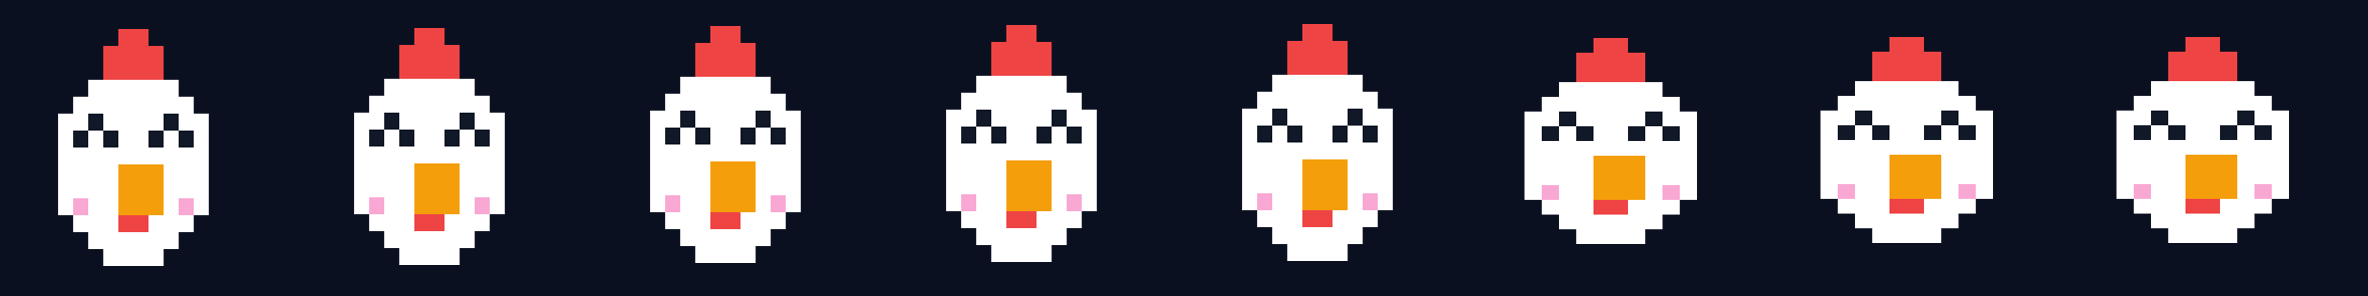
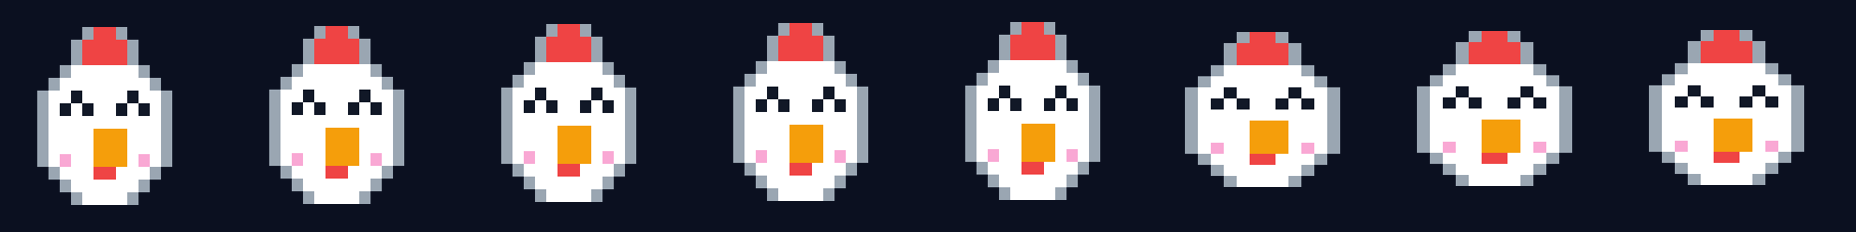
fix(ui): contorno do mascote e ajustes de tela
- mascote com contorno (some no fundo branco sem ele)
- onboarding com SafeArea (barra não invade a status bar)
- estrela do nó branca
- dica de tradução só em nós de texto

diff --git a/app/src/components/Mascot.tsx b/app/src/components/Mascot.tsx
@@ -12,6 +12,9 @@ const PALETTE: Record<string, string | null> = {
   P: "#f9a8d4",
 };
 
+// Contorno: dá definição da cara branca sobre fundo branco.
+const OUTLINE = "#9AA6B2";
+
 const SPRITE = [
   "......RR........",
   ".....RRRR.......",
@@ -69,6 +72,32 @@ function poseFor(mode: MascotMode, t: number, frame: number) {
   };
 }
 
+function buildGrid(pose: ReturnType<typeof poseFor>): Map<string, string> {
+  const grid = new Map<string, string>();
+  SPRITE.forEach((line, row) => {
+    for (let col = 0; col < line.length; col++) {
+      const color = PALETTE[line[col]];
+      if (color) grid.set(`${row},${col}`, color);
+    }
+  });
+  if (pose.expr !== "blink") {
+    for (const [row, col, ch] of EYE_CELLS[pose.expr]) {
+      grid.set(`${row},${col}`, PALETTE[ch] as string);
+    }
+  }
+  if (pose.beakOpen) {
+    for (let col = 6; col <= 8; col++) grid.set(`10,${col}`, PALETTE.O as string);
+  }
+  return grid;
+}
+
+const NEIGHBORS = [
+  [1, 0],
+  [-1, 0],
+  [0, 1],
+  [0, -1],
+];
+
 type Props = { mode?: MascotMode; cell?: number };
 
 export function Mascot({ mode = "idle", cell = 8 }: Props) {
@@ -80,22 +109,35 @@ export function Mascot({ mode = "idle", cell = 8 }: Props) {
   }, []);
 
   const pose = poseFor(mode, frame * 0.1, frame);
+  const grid = buildGrid(pose);
 
-  const cells: { row: number; col: number; color: string }[] = [];
-  SPRITE.forEach((line, row) => {
-    for (let col = 0; col < line.length; col++) {
-      const color = PALETTE[line[col]];
-      if (color) cells.push({ row, col, color });
-    }
-  });
-  if (pose.expr !== "blink") {
-    for (const [row, col, ch] of EYE_CELLS[pose.expr]) {
-      cells.push({ row, col, color: PALETTE[ch] as string });
+  const outline: string[] = [];
+  for (let row = -1; row <= SPRITE_H; row++) {
+    for (let col = -1; col <= SPRITE_W; col++) {
+      const key = `${row},${col}`;
+      if (grid.has(key)) continue;
+      if (NEIGHBORS.some(([dr, dc]) => grid.has(`${row + dr},${col + dc}`))) {
+        outline.push(key);
+      }
     }
   }
-  if (pose.beakOpen) {
-    for (let col = 6; col <= 8; col++) cells.push({ row: 10, col, color: PALETTE.O as string });
-  }
+
+  const rect = (key: string, color: string, i: string) => {
+    const [row, col] = key.split(",").map(Number);
+    return (
+      <View
+        key={i}
+        style={{
+          position: "absolute",
+          left: col * cell,
+          top: row * cell,
+          width: cell,
+          height: cell,
+          backgroundColor: color,
+        }}
+      />
+    );
+  };
 
   return (
     <View style={[styles.stage, { width: SPRITE_W * cell, height: SPRITE_H * cell }]}>
@@ -106,19 +148,8 @@ export function Mascot({ mode = "idle", cell = 8 }: Props) {
           transform: [{ translateY: pose.yOff }, { scaleY: 1 - pose.squash }],
         }}
       >
-        {cells.map((c, i) => (
-          <View
-            key={i}
-            style={{
-              position: "absolute",
-              left: c.col * cell,
-              top: c.row * cell,
-              width: cell,
-              height: cell,
-              backgroundColor: c.color,
-            }}
-          />
-        ))}
+        {outline.map((key, i) => rect(key, OUTLINE, `o${i}`))}
+        {Array.from(grid.entries()).map(([key, color], i) => rect(key, color, `c${i}`))}
       </View>
     </View>
   );

diff --git a/mascot/sketch.js b/mascot/sketch.js
@@ -13,6 +13,8 @@ const PALETTE = {
   P: "#f9a8d4", // bochecha
 };
 
+const OUTLINE = "#9AA6B2"; // contorno (leitura em fundo claro)
+
 // Cara (sem olhos — olhos são desenhados por expressão).
 const SPRITE = [
   "......RR........",
@@ -85,27 +87,39 @@ function eyeCells(expr) {
 // ---- Desenho -----------------------------------------------------------
 
 function drawSpriteInto(g, pose) {
+  const grid = new Map();
   for (let row = 0; row < SPRITE_H; row++) {
-    const line = SPRITE[row];
     for (let col = 0; col < SPRITE_W; col++) {
-      const color = PALETTE[line[col]];
-      if (!color) continue;
-      g.fill(color);
-      g.rect(col * CELL, row * CELL, CELL, CELL);
+      if (PALETTE[SPRITE[row][col]]) grid.set(`${row},${col}`, PALETTE[SPRITE[row][col]]);
     }
   }
-
   if (pose.expr !== "blink") {
-    for (const [row, col, color] of eyeCells(pose.expr)) {
-      g.fill(color);
-      g.rect(col * CELL, row * CELL, CELL, CELL);
-    }
+    for (const [row, col, color] of eyeCells(pose.expr)) grid.set(`${row},${col}`, color);
+  }
+  if (pose.beakOpen) {
+    for (let col = 6; col <= 8; col++) grid.set(`10,${col}`, PALETTE.O);
   }
 
-  if (pose.beakOpen) {
-    g.fill(PALETTE.O);
-    for (let col = 6; col <= 8; col++) g.rect(col * CELL, 10 * CELL, CELL, CELL);
+  const paint = (key, color) => {
+    const [row, col] = key.split(",").map(Number);
+    g.fill(color);
+    g.rect(col * CELL, row * CELL, CELL, CELL);
+  };
+
+  // contorno (leitura em fundo claro)
+  for (let row = -1; row <= SPRITE_H; row++) {
+    for (let col = -1; col <= SPRITE_W; col++) {
+      const key = `${row},${col}`;
+      if (grid.has(key)) continue;
+      const n =
+        grid.has(`${row + 1},${col}`) ||
+        grid.has(`${row - 1},${col}`) ||
+        grid.has(`${row},${col + 1}`) ||
+        grid.has(`${row},${col - 1}`);
+      if (n) paint(key, OUTLINE);
+    }
   }
+  for (const [key, color] of grid) paint(key, color);
 }
 
 function drawFace(pose) {

diff --git a/app/src/screens/OnboardingScreen.tsx b/app/src/screens/OnboardingScreen.tsx
@@ -1,5 +1,6 @@
 import { useState } from "react";
 import { Pressable, StyleSheet, Text, View } from "react-native";
+import { SafeAreaView } from "react-native-safe-area-context";
 import { DuoButton } from "../components/DuoButton";
 import { Mascot, type MascotMode } from "../components/Mascot";
 import { ProgressBar } from "../components/ProgressBar";
@@ -38,7 +39,7 @@ export function OnboardingScreen() {
   const next = () => (last ? finishTutorial() : setIndex(index + 1));
 
   return (
-    <View style={styles.overlay}>
+    <SafeAreaView style={styles.overlay} edges={["top", "bottom"]}>
       <View style={styles.top}>
         <View style={styles.progressWrap}>
           <ProgressBar progress={(index + 1) / STEPS.length} />
@@ -61,7 +62,7 @@ export function OnboardingScreen() {
           <DuoButton label={last ? "Começar" : "Continuar"} onPress={next} />
         </View>
       </View>
-    </View>
+    </SafeAreaView>
   );
 }
 

diff --git a/app/src/screens/TrailScreen.tsx b/app/src/screens/TrailScreen.tsx
@@ -38,7 +38,14 @@ export function TrailScreen({ navigation }: Props) {
                   onPress={() => navigation.navigate("Reader", { storyId: story.id })}
                   style={[styles.node, { backgroundColor: bg }]}
                 >
-                  <Text style={styles.nodeIcon}>{done ? "✓" : unlocked ? "★" : "🔒"}</Text>
+                  <Text
+                    style={[
+                      styles.nodeIcon,
+                      { color: unlocked ? "#FFFFFF" : colors.textMuted },
+                    ]}
+                  >
+                    {done ? "✓" : unlocked ? "★" : "🔒"}
+                  </Text>
                 </Pressable>
               </View>
               <Text style={styles.nodeLabel}>{story.title}</Text>

diff --git a/app/src/screens/ReaderScreen.tsx b/app/src/screens/ReaderScreen.tsx
@@ -102,7 +102,7 @@ export function ReaderScreen({ route, navigation }: Props) {
       </View>
 
       <ScrollView contentContainerStyle={styles.content}>
-        {!seenReaderHint && (
+        {!seenReaderHint && node.type === "line" && (
           <Pressable style={styles.hint} onPress={dismissReaderHint}>
             <Text style={styles.hintText}>
               Toque em qualquer palavra em francês para ver a tradução.

diff --git a/mascot/preview.py b/mascot/preview.py
@@ -22,8 +22,10 @@ SKETCH = HERE / "sketch.js"
 OUT = HERE / "preview"
 
 BG = (11, 16, 32)
-CELL = 16
+CELL = 12
 FRAMES = 8
+
+OUTLINE = (154, 166, 178)
 
 PALETTE: dict[str, tuple[int, int, int] | None] = {}
 SPRITE: list[str] = []
@@ -89,19 +91,30 @@ def draw_sprite(pose) -> Image.Image:
             fill=color + (255,),
         )
 
+    grid: dict[tuple[int, int], str] = {}
     for row, line in enumerate(SPRITE):
         for col, ch in enumerate(line):
-            color = PALETTE.get(ch)
-            if color:
-                cell(col, row, color)
+            if PALETTE.get(ch):
+                grid[(row, col)] = ch
 
     if pose["expr"] != "blink":
         for row, col, ch in EYE_CELLS[pose["expr"]]:
-            cell(col, row, PALETTE[ch])
+            grid[(row, col)] = ch
 
     if pose["beakOpen"]:
         for col in range(6, 9):
-            cell(col, 10, PALETTE["O"])
+            grid[(10, col)] = "O"
+
+    for row in range(-1, len(SPRITE) + 1):
+        for col in range(-1, len(SPRITE[0]) + 1):
+            if (row, col) in grid:
+                continue
+            neighbors = [(row + 1, col), (row - 1, col), (row, col + 1), (row, col - 1)]
+            if any(n in grid for n in neighbors):
+                cell(col, row, OUTLINE)
+
+    for (row, col), ch in grid.items():
+        cell(col, row, PALETTE[ch])
 
     return img
 
